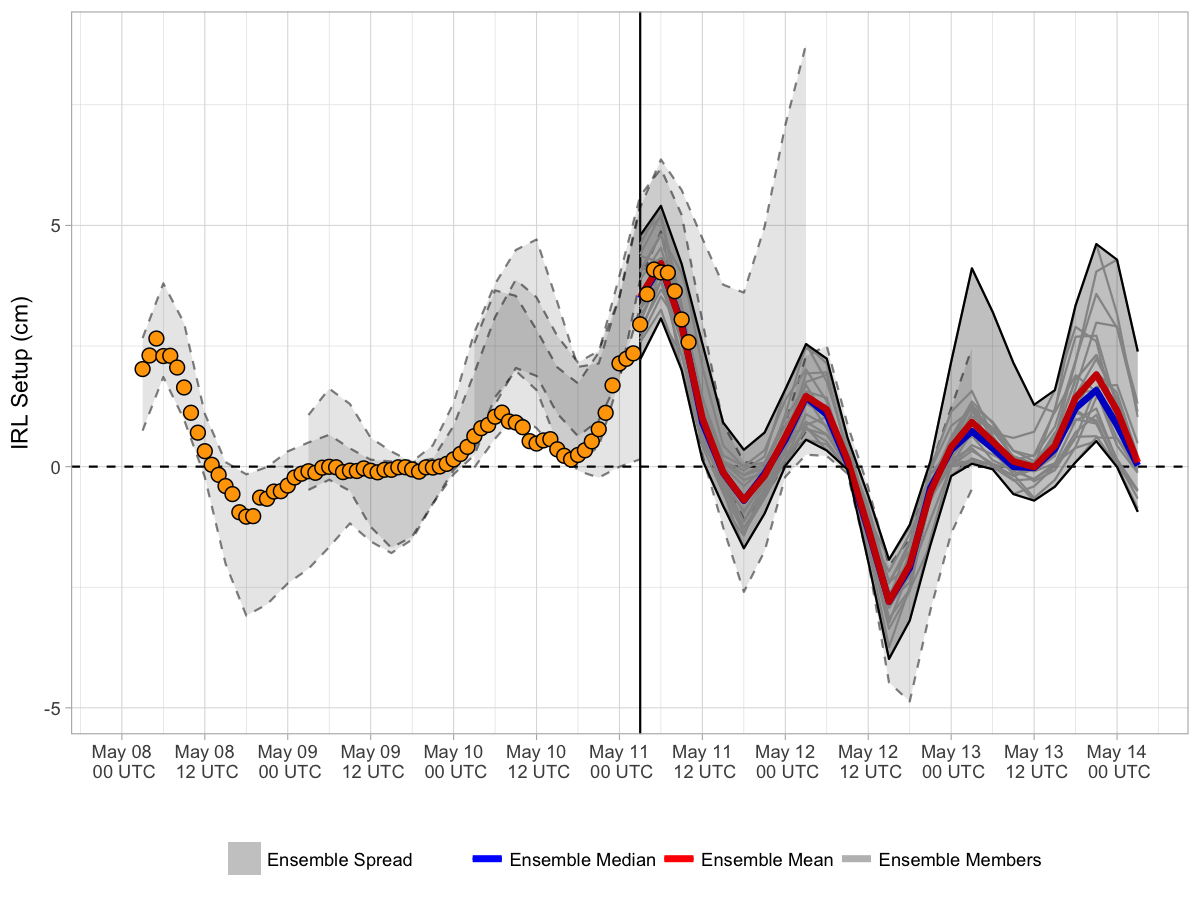
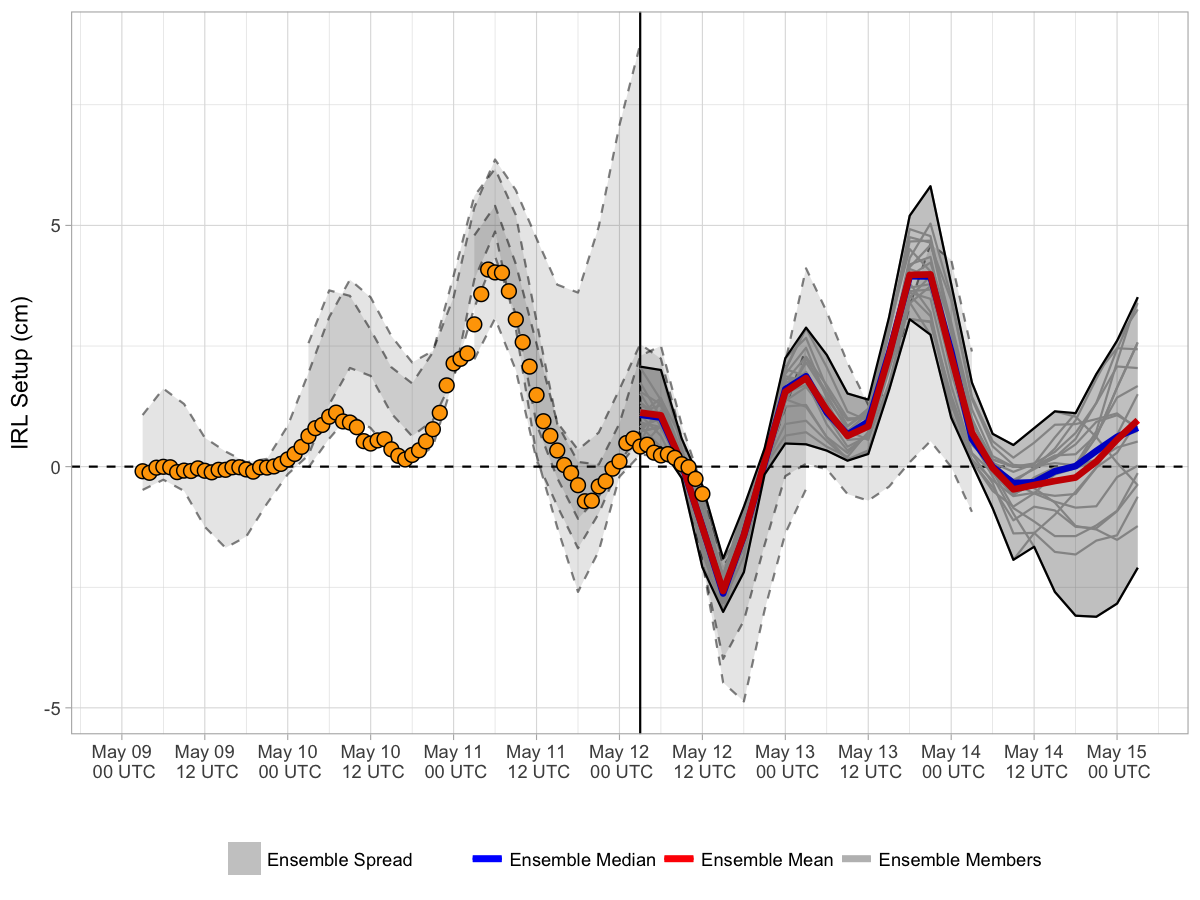
20170512 forecast update

Changed region(s): [[0.0925, 0.0622, 0.9558, 0.7778], [0.3083, 0.8089, 0.3392, 0.84], [0.2467, 0.8089, 0.2775, 0.84]]

diff --git a/docs/index.md b/docs/index.md
@@ -3,7 +3,7 @@ Current Forecast
 
 [![](img/raw_setup.png)](https://bhlmn.github.io/IRLSetup/img/raw_setup.png)
 
-> Forecast valid 2017-05-11 07:10:48.
+> Forecast valid 2017-05-12 09:47:43.
 
 Explanation
 -----------
@@ -15,7 +15,7 @@ water elevation in the northern IRL (near Titusville), and negative
 setup indicates the increase elevation in the southern IRL (near
 Sebastian). The x-axis displays the date and time in UTC. The solid
 vertical line represents the beginning of the most recent ensemble
-forecast (currently 2017-05-10 18:00:00). For this most recent forecast,
+forecast (currently 2017-05-11 18:00:00). For this most recent forecast,
 the ensemble spread (grey shading) is bound by solid black lines, with
 individual members represented by faint grey lines. The ensemble mean
 and median for this are represented by the red and blue curves,
